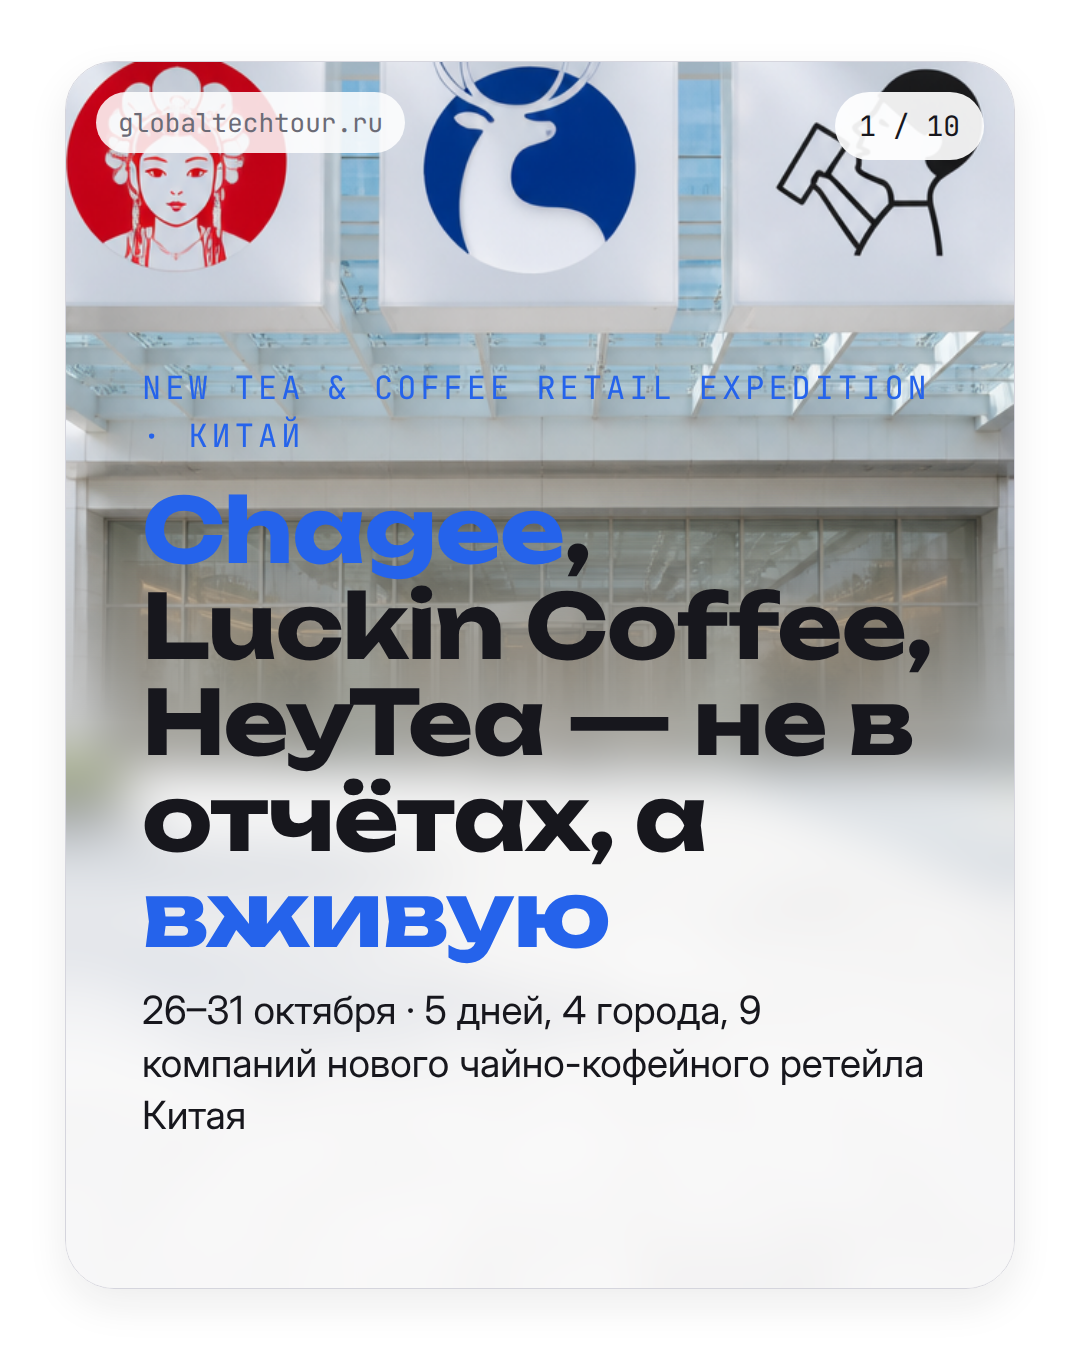
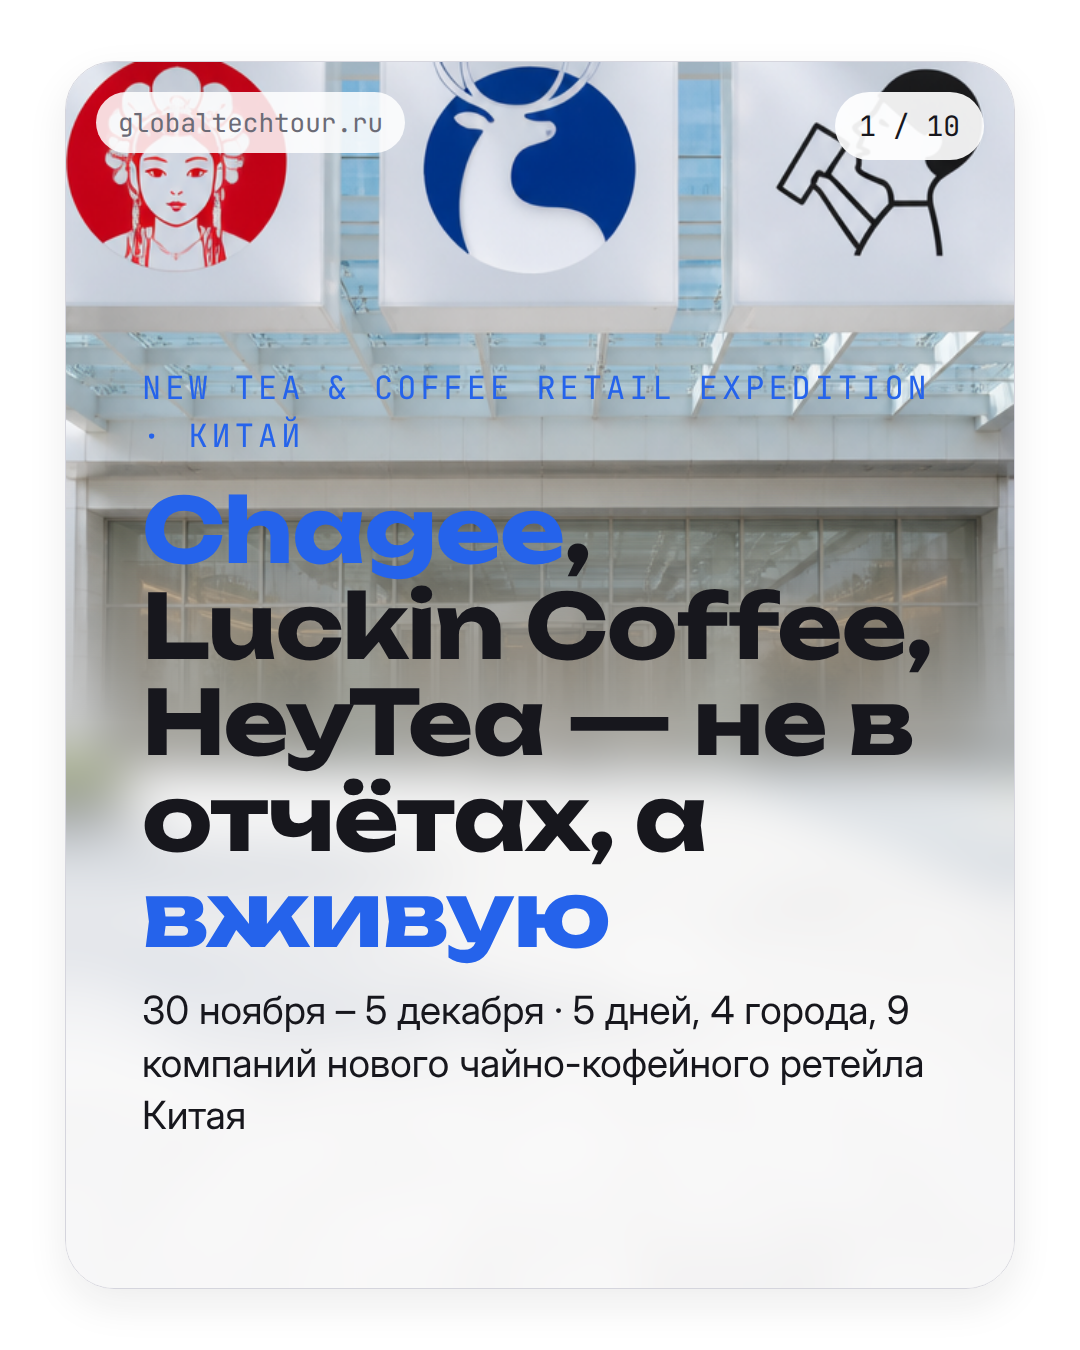
FlipCards: плашки переворачиваются по вертикальной оси; «Чай и кофе» — даты 30 ноября – 5 декабря
- Новый эффект FlipCards и проп flips в ChinaStories: карточки-логотипы
  выходят из ребра и уходят в ребро на каждом бренде.
- «Чай и кофе»: плашки Chagee / Luckin / HeyTea с переворотом.
- Даты экспедиции по чаю и кофе: 30 ноября – 5 декабря в карусели,
  подписи и плане публикаций.
- render-carousel: --public-dir для облегчённого бандла.

Claude-Session: https://claude.ai/code/session_015dogi7cnbwQ4Z7wfMFkFsR

Changed region(s): [[0.1222, 0.7156, 0.8556, 0.7778]]

diff --git a/remotion-video-tools/src/shared/components/effects/FlipCards.tsx b/remotion-video-tools/src/shared/components/effects/FlipCards.tsx
@@ -1,0 +1,143 @@
+import {
+  AbsoluteFill,
+  Easing,
+  Img,
+  interpolate,
+  spring,
+  staticFile,
+  useCurrentFrame,
+  useVideoConfig,
+} from "remotion";
+import { z } from "zod";
+
+/**
+ * FlipCards — карточки на фоне по очереди переворачиваются вокруг
+ * вертикальной оси: каждая входит разворотом, на следующем слове уходит
+ * разворотом и открывает следующую.
+ *
+ * Сделано для перечисления брендов («Chagee, Luckin Coffee, HeyTea»):
+ * плашка-логотип на весь кадр читается сразу, а переворот показывает,
+ * что это один ряд, а не три отдельные вставки.
+ *
+ * ——— Как движется ———
+ *
+ * Фон проявляется за `fadeFrames` и медленно дышит. Первая карточка
+ * разворачивается из ребра (rotateY −90° → 0) с пружиной и лёгким
+ * перелётом. За `flipFrames / 2` до конца своего окна карточка уходит в
+ * ребро (0 → 90°, ускорение), следующая сразу выходит из ребра с другой
+ * стороны — вместе это читается как переворот одной карточки. На ребре
+ * карточка темнеет: без этого поворот выглядит плоским сжатием.
+ *
+ * Карточка — PNG с прозрачным фоном (логотип, название, подпись), фон —
+ * отдельная картинка: переворачивается только карточка, фон стоит.
+ */
+export const flipCardItemSchema = z.object({
+  src: z.string().describe("PNG карточки с прозрачным фоном внутри public"),
+  seconds: z
+    .number()
+    .optional()
+    .describe("Сколько держится карточка; без — делят остаток поровну"),
+});
+
+export const flipCardsSchema = z.object({
+  background: z.string().describe("Фон на весь кадр внутри public; пусто — без фона"),
+  items: z.array(flipCardItemSchema).describe("Карточки по порядку"),
+  flipFrames: z.number().int().min(4).describe("Длительность переворота в кадрах"),
+  fadeFrames: z.number().int().min(1).describe("Проявление фона в кадрах"),
+  widthFraction: z.number().min(0.2).max(1).describe("Ширина карточки, доля кадра"),
+  centerY: z.number().min(0).max(1).describe("Центр карточки по высоте, доля кадра"),
+  perspective: z.number().min(200).describe("Глубина перспективы, px"),
+});
+
+export type FlipCardsParams = z.infer<typeof flipCardsSchema>;
+export type FlipCardsProps = Partial<FlipCardsParams>;
+
+export const flipCardsDefaults: FlipCardsParams = {
+  background: "",
+  items: [],
+  flipFrames: 14,
+  fadeFrames: 6,
+  widthFraction: 0.84,
+  centerY: 0.45,
+  perspective: 1800,
+};
+
+export const FlipCards: React.FC<FlipCardsProps> = (params) => {
+  const p = { ...flipCardsDefaults, ...params };
+  const { items, flipFrames, fadeFrames, widthFraction, centerY, perspective, background } = p;
+  const frame = useCurrentFrame();
+  const { fps, width, height, durationInFrames } = useVideoConfig();
+  if (!items.length) return null;
+
+  // Окна карточек: заданные `seconds` — как есть, остаток делится поровну.
+  const fixed = items.map((it) => (it.seconds ? Math.round(it.seconds * fps) : null));
+  const fixedSum = fixed.reduce<number>((a, f) => a + (f ?? 0), 0);
+  const free = fixed.filter((f) => f === null).length;
+  const per = free ? Math.floor(Math.max(0, durationInFrames - fixedSum) / free) : 0;
+  const lens = fixed.map((f) => f ?? per);
+  const starts = lens.map((_, i) => lens.slice(0, i).reduce((a, b) => a + b, 0));
+  const half = Math.max(2, Math.round(flipFrames / 2));
+
+  const bgIn = interpolate(frame, [0, fadeFrames], [0, 1], {
+    extrapolateLeft: "clamp",
+    extrapolateRight: "clamp",
+  });
+  const bgOut = interpolate(frame, [durationInFrames - fadeFrames, durationInFrames], [1, 0], {
+    extrapolateLeft: "clamp",
+    extrapolateRight: "clamp",
+  });
+  const breathe = interpolate(frame, [0, durationInFrames], [1, 1.05]);
+  const cardW = width * widthFraction;
+
+  return (
+    <AbsoluteFill style={{ opacity: Math.min(bgIn, bgOut) }}>
+      {background ? (
+        <Img
+          src={staticFile(background)}
+          style={{ width: "100%", height: "100%", objectFit: "cover", transform: `scale(${breathe})` }}
+        />
+      ) : null}
+      {items.map((item, i) => {
+        const from = starts[i];
+        const last = i === items.length - 1;
+        const local = frame - from;
+        if (local < 0 || (!last && local >= lens[i])) return null;
+        // Вход: пружина из ребра; у первой — чуть позже проявления фона.
+        const enterDelay = i === 0 ? Math.round(fadeFrames / 2) : 0;
+        const enter = spring({
+          frame: local - enterDelay,
+          fps,
+          config: { damping: 13, mass: 0.7, stiffness: 170 },
+          durationInFrames: half * 2,
+        });
+        const exit = last
+          ? 0
+          : interpolate(local, [lens[i] - half, lens[i]], [0, 1], {
+              extrapolateLeft: "clamp",
+              extrapolateRight: "clamp",
+              easing: Easing.in(Easing.cubic),
+            });
+        const angle = exit > 0 ? 90 * exit : -90 * (1 - enter);
+        const edge = Math.abs(angle) / 90;
+        const lift = interpolate(enter, [0, 1], [0.9, 1]);
+        return (
+          <div
+            key={`${item.src}-${i}`}
+            style={{
+              position: "absolute",
+              left: (width - cardW) / 2,
+              top: height * centerY,
+              width: cardW,
+              transform: `translateY(-50%) perspective(${perspective}px) rotateY(${angle}deg) scale(${lift})`,
+              transformOrigin: "50% 50%",
+              filter: `brightness(${1 - edge * 0.45}) drop-shadow(0 ${30 * (1 - edge)}px ${50}px rgba(10,30,70,${0.35 * (1 - edge)}))`,
+              backfaceVisibility: "hidden",
+            }}
+          >
+            <Img src={staticFile(item.src)} style={{ width: "100%", display: "block" }} />
+          </div>
+        );
+      })}
+    </AbsoluteFill>
+  );
+};

diff --git a/remotion-video-tools/src/globaltechtour/compositions/ChinaStories.tsx b/remotion-video-tools/src/globaltechtour/compositions/ChinaStories.tsx
@@ -26,6 +26,8 @@ import {
   PipScreen,
   SplitScreen,
   WipeBroll,
+  FlipCards,
+  flipCardItemSchema,
 } from "../../shared/components/effects";
 import { useCaptions } from "../../shared/useCaptions";
 import { useFormat } from "../../shared/format";
@@ -157,6 +159,11 @@ const pipBlock = z.object({
     .enum(["bottom-right", "bottom-left", "top-right", "top-left"])
     .optional(),
 });
+const flipBlock = z.object({
+  ...span,
+  background: z.string().optional().describe("Фон на весь кадр внутри public"),
+  items: z.array(flipCardItemSchema).describe("PNG-карточки по порядку — по словам"),
+});
 const brollBlock = z.object({
   ...span,
   items: z
@@ -208,6 +215,10 @@ export const chinaStoriesSchema = z.object({
     .array(brollBlock)
     .optional()
     .describe("B-roll на весь кадр со шторкой"),
+  flips: z
+    .array(flipBlock)
+    .optional()
+    .describe("Карточки на весь кадр, которые переворачиваются по словам"),
   splits: z
     .array(splitBlock)
     .optional()
@@ -402,6 +413,7 @@ export const ChinaStories: React.FC<ChinaStoriesProps> = ({
   popWindows = [],
   inserts = [],
   brolls = [],
+  flips = [],
   splits = [],
   splitSeam,
   splitEyesAt,
@@ -444,7 +456,7 @@ export const ChinaStories: React.FC<ChinaStoriesProps> = ({
   // сверху ложилась на телефон с сайтом.
   const cutawayNow =
     cutaways.some((c) => second >= c.at && second < c.at + c.seconds) ||
-    [...brolls, ...pips, ...(cutoutSrc ? stages : [])].some(
+    [...brolls, ...flips, ...pips, ...(cutoutSrc ? stages : [])].some(
       (b) => second >= b.at && second < b.until,
     );
 
@@ -547,6 +559,15 @@ export const ChinaStories: React.FC<ChinaStoriesProps> = ({
             durationInFrames={AT(b.until - b.at, fps)}
           >
             <WipeBroll items={b.items} />
+          </Sequence>
+        ))}
+        {flips.map((b) => (
+          <Sequence
+            key={`f-${b.at}`}
+            from={AT(b.at, fps)}
+            durationInFrames={AT(b.until - b.at, fps)}
+          >
+            <FlipCards background={b.background} items={b.items} />
           </Sequence>
         ))}
 

diff --git a/remotion-video-tools/src/shared/components/effects/index.ts b/remotion-video-tools/src/shared/components/effects/index.ts
@@ -16,6 +16,7 @@ export * from "./CutoutStage";
 export * from "./Shimmer";
 export * from "./SlowZoom";
 export * from "./AngleCuts";
+export * from "./FlipCards";
 // new-effect:exports:end
 export * from "./ChatOverlay";
 export * from "./CountUp";

diff --git a/remotion-video-tools/src/shared/components/effects/README.md b/remotion-video-tools/src/shared/components/effects/README.md
@@ -87,3 +87,4 @@ Shared-MotionLab). Для тёмных сцен берите `screen` или `so
 | `ScreenCapture` | Запись экрана сайта в макете: `LaptopCapture` — ноутбук со строкой браузера (адрес печатается), куски записи со своей скоростью, курсор рисуется по пути из записи, камера наезжает к курсору; `PhoneCapture` — телефон въезжает снизу с поворотом | `segments` (from, to, rec, rate), `cursor` (события from/to/click), `url`, `typing`, `zoom` (1.42), `centerY` (0.47); телефон: `rec`, `rate`, `heightFraction` |
 | `PromoOverlays` | Наложения промо: `StatBadge` — цифра с отсчётом в углу, `TickerTape` — бегущая строка, `RouteChips` — города маршрута загораются по кадрам, `CtaCard` — адрес и цифра на слове, `BlockFade` — наплыв блока | `value`/`label`, `items`, `cities`/`at`, `site`/`days`/`daysAt`, `frames` |
 | `GiphySticker` | Гифка или стикер Giphy поверх ролика: стикер (прозрачный WebM) выпрыгивает пружиной и покачивается, гифка (MP4) — со скруглением и тенью; цикл на свою длину. Файлы и размеры — из `npm run giphy` / `data/giphy.json` | `src`, `sticker` (true), `seconds` (2), `aspect` (1), `x`/`y` (0.5), `widthFraction` (0.4), `tilt` (−4) |
+| `FlipCards` | Карточки на фоне по очереди переворачиваются вокруг вертикальной оси: каждая входит из ребра с пружиной, на следующем слове уходит в ребро и открывает следующую (перечисление брендов) | `background`, `items[{src, seconds}]`, `flipFrames`, `widthFraction`, `centerY` |
